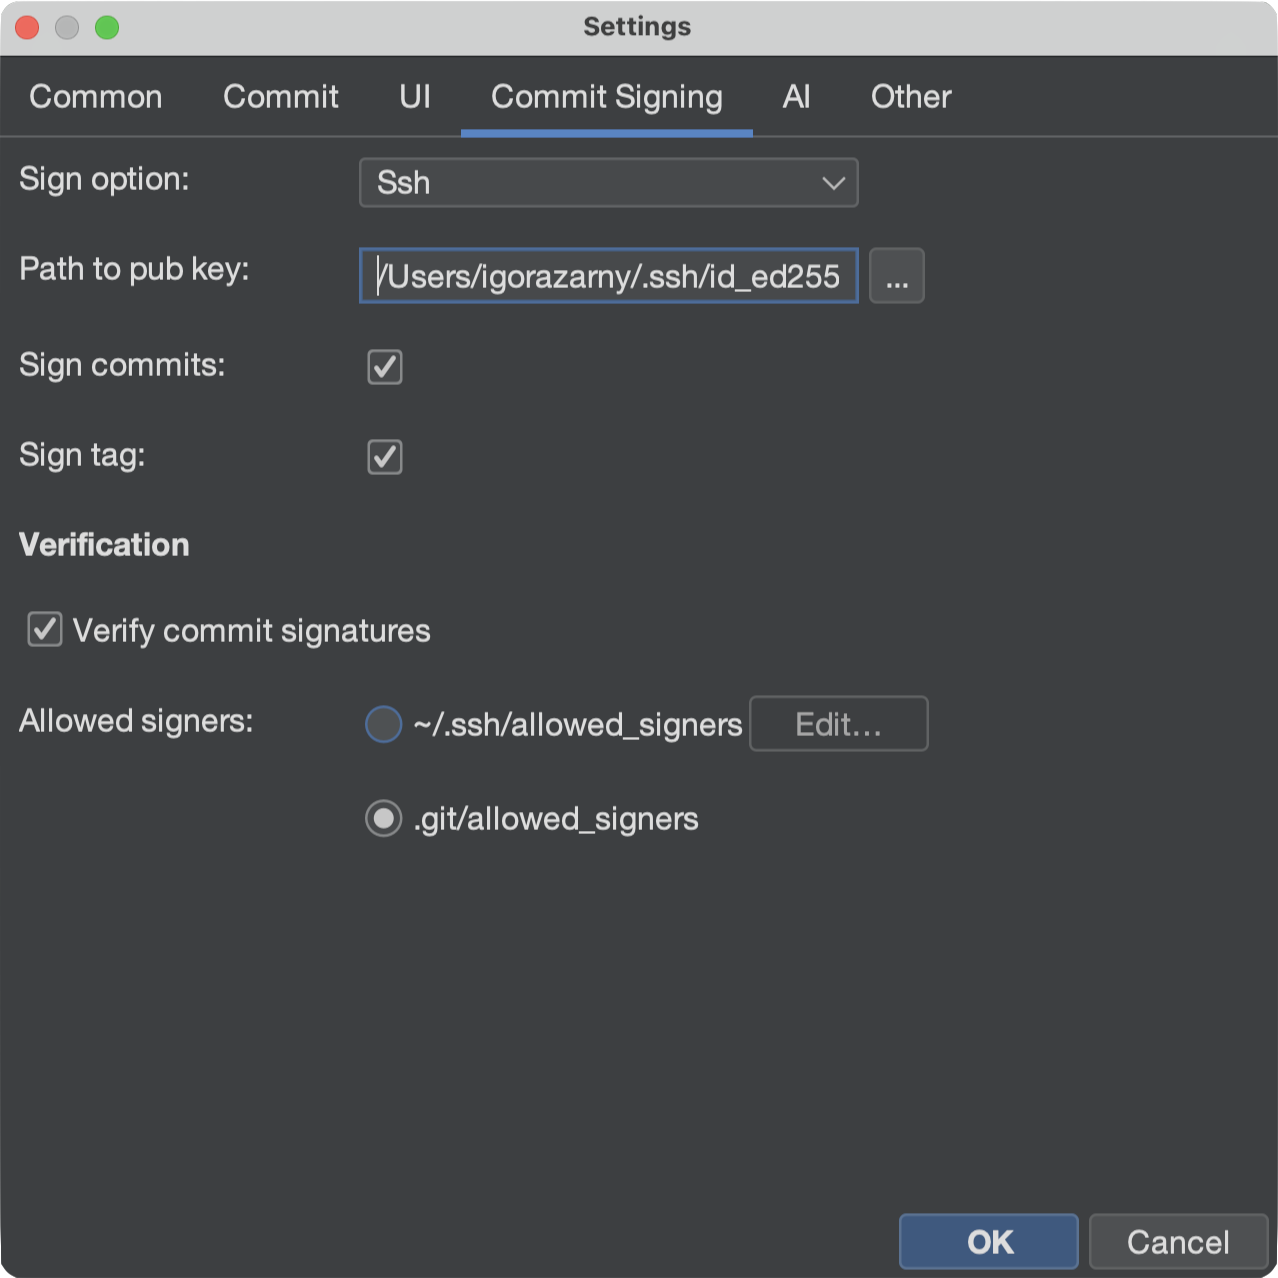
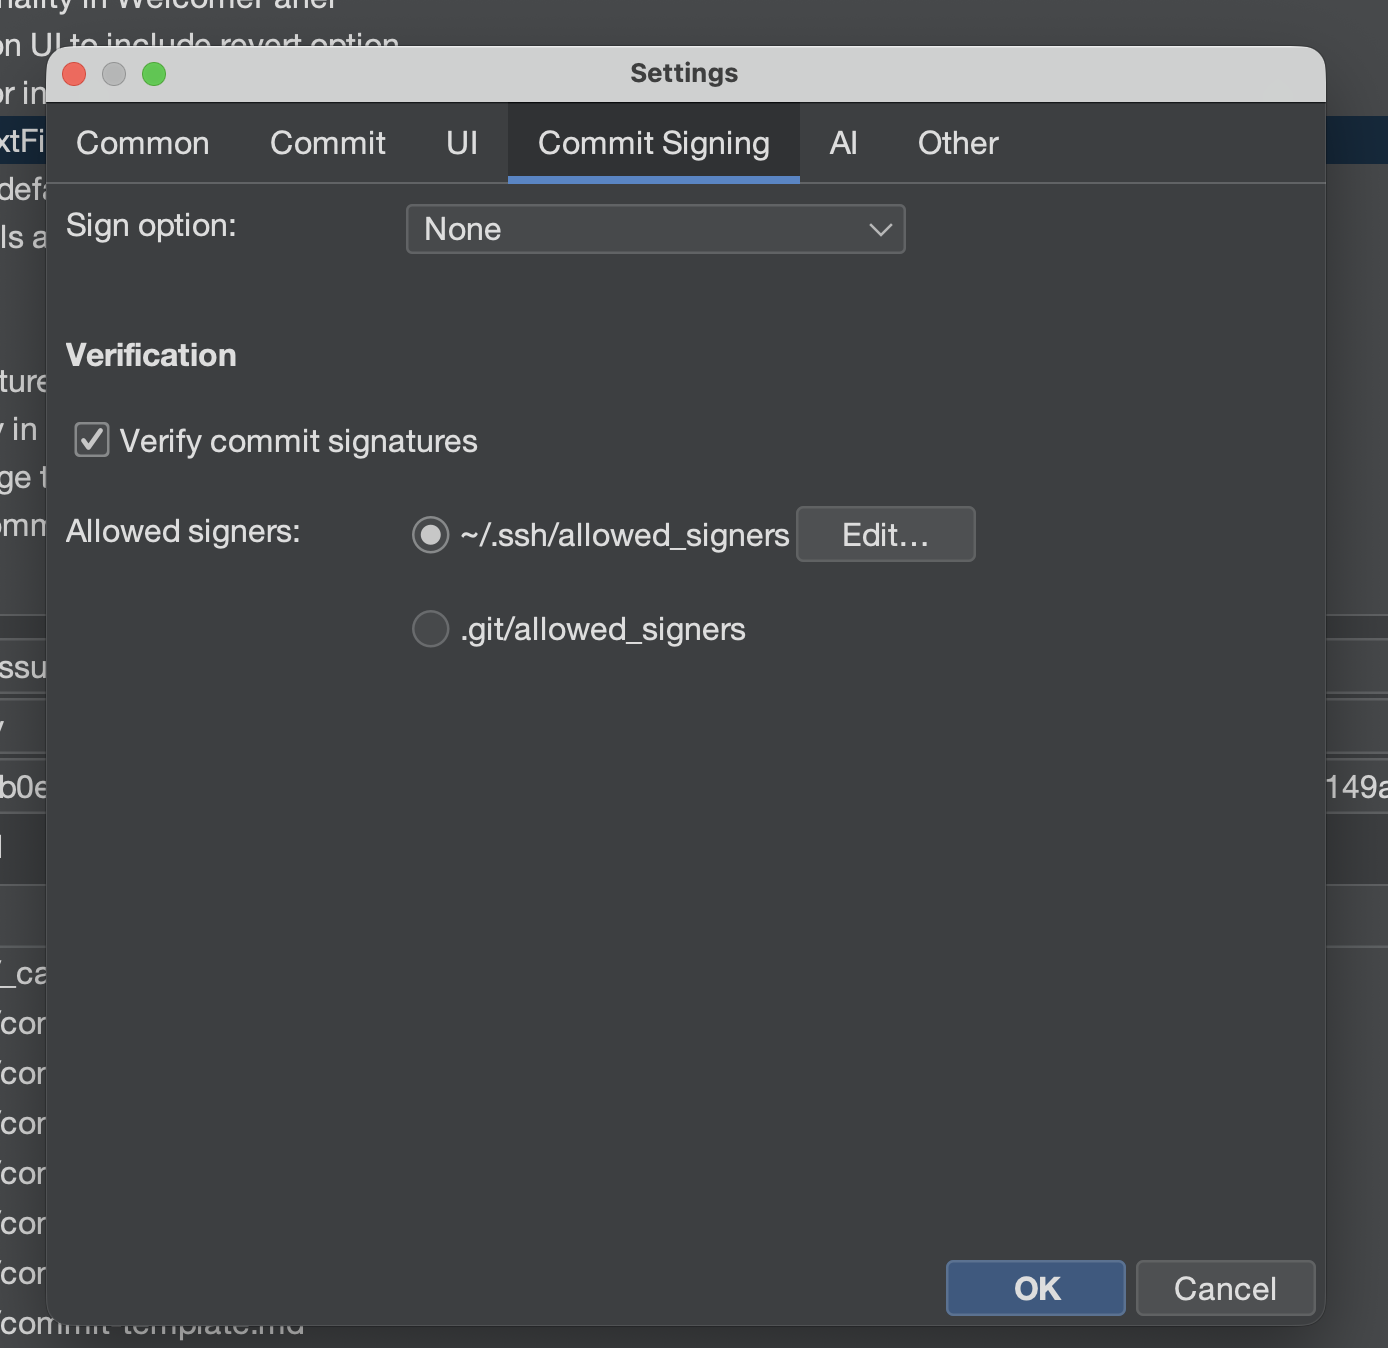
working on docs

diff --git a/src/main/java/com/az/gitember/ui/MainMenuBar.java b/src/main/java/com/az/gitember/ui/MainMenuBar.java
@@ -364,7 +364,7 @@ public class MainMenuBar extends JMenuBar {
         aboutItem.addActionListener(e -> {
             JEditorPane ep = new JEditorPane("text/html",
                     "<html><body style='font-family:sans-serif;font-size:12px'>" +
-                    "<b>Gitember 3.4.2 </b> — Git GUI Client<br><br>" +
+                    "<b>Gitember 3.4.5 </b> — Git GUI Client<br><br>" +
                     "Web site: <a href='https://gitember.org/'>https://gitember.org/</a><br>" +
                     "Support: <a href='https://github.com/iazarny/gitember/issues'>https://github.com/iazarny/gitember/issues</a><br>" +
                     "</body></html>");

diff --git a/ge-doc/docs/ge-commit/commit-verify.md b/ge-doc/docs/ge-commit/commit-verify.md
@@ -39,12 +39,7 @@ When the global file is selected, **Edit…** opens `~/.ssh/allowed_signers` and
 When the repository file is selected, **Project Settings** grows an
 **Edit .git/allowed_signers…** button.
 
-:::tip Screenshot placeholder
-Add `commit-verify-settings.png` here (the Verification block: checkbox, the two allowed-signers
-radios, and the Edit / Edit revoked keys buttons).
-:::
-
-TODO  commit-verify-settings.png
+![commit-verify-settings.png](commit-verify-settings.png)
 
 GPG signatures are verified against your local OpenPGP keyring. The allowed-signers file is
 used for **SSH** signatures.
